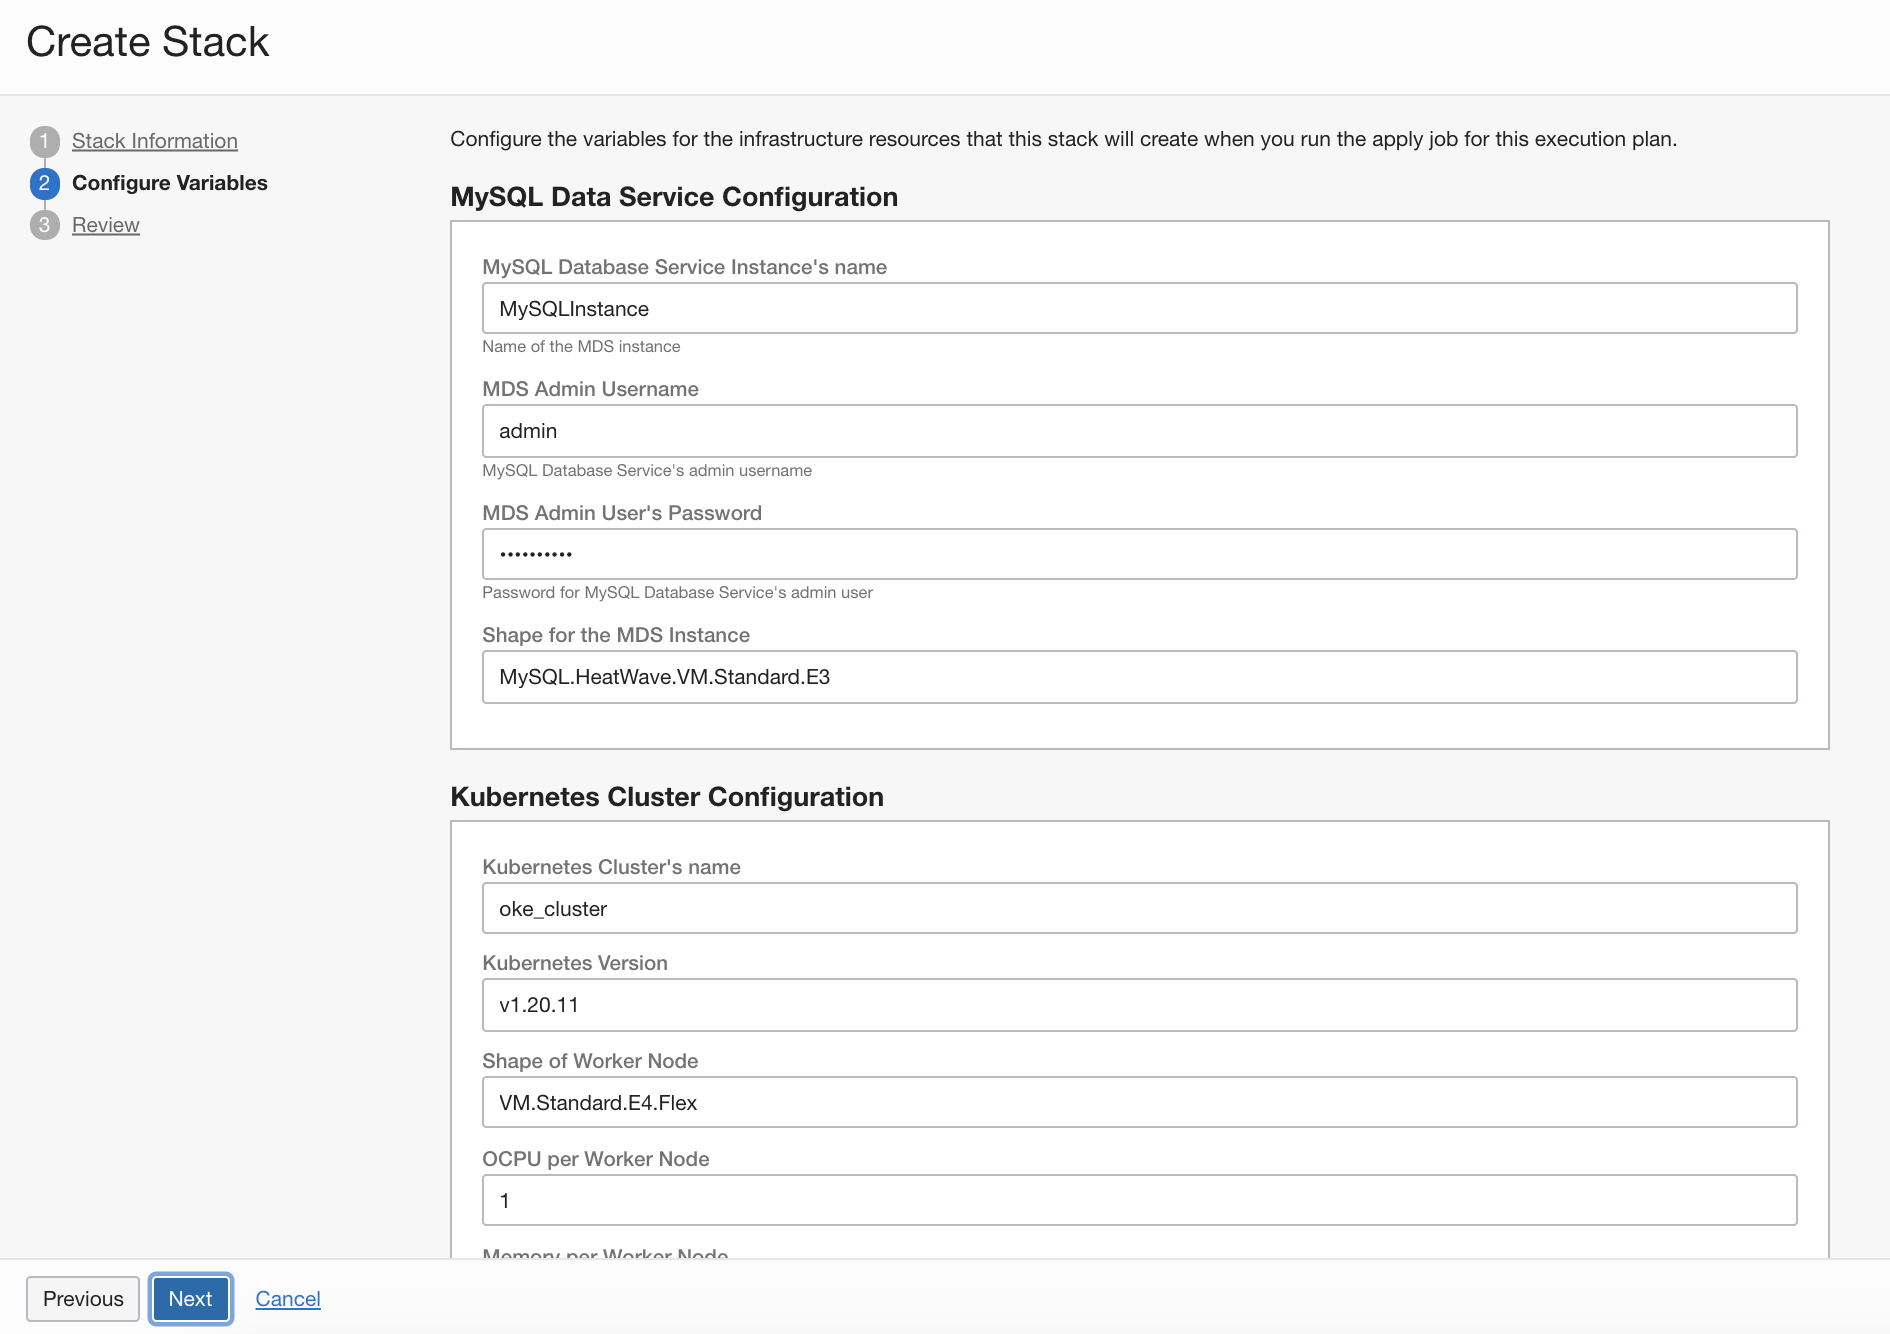
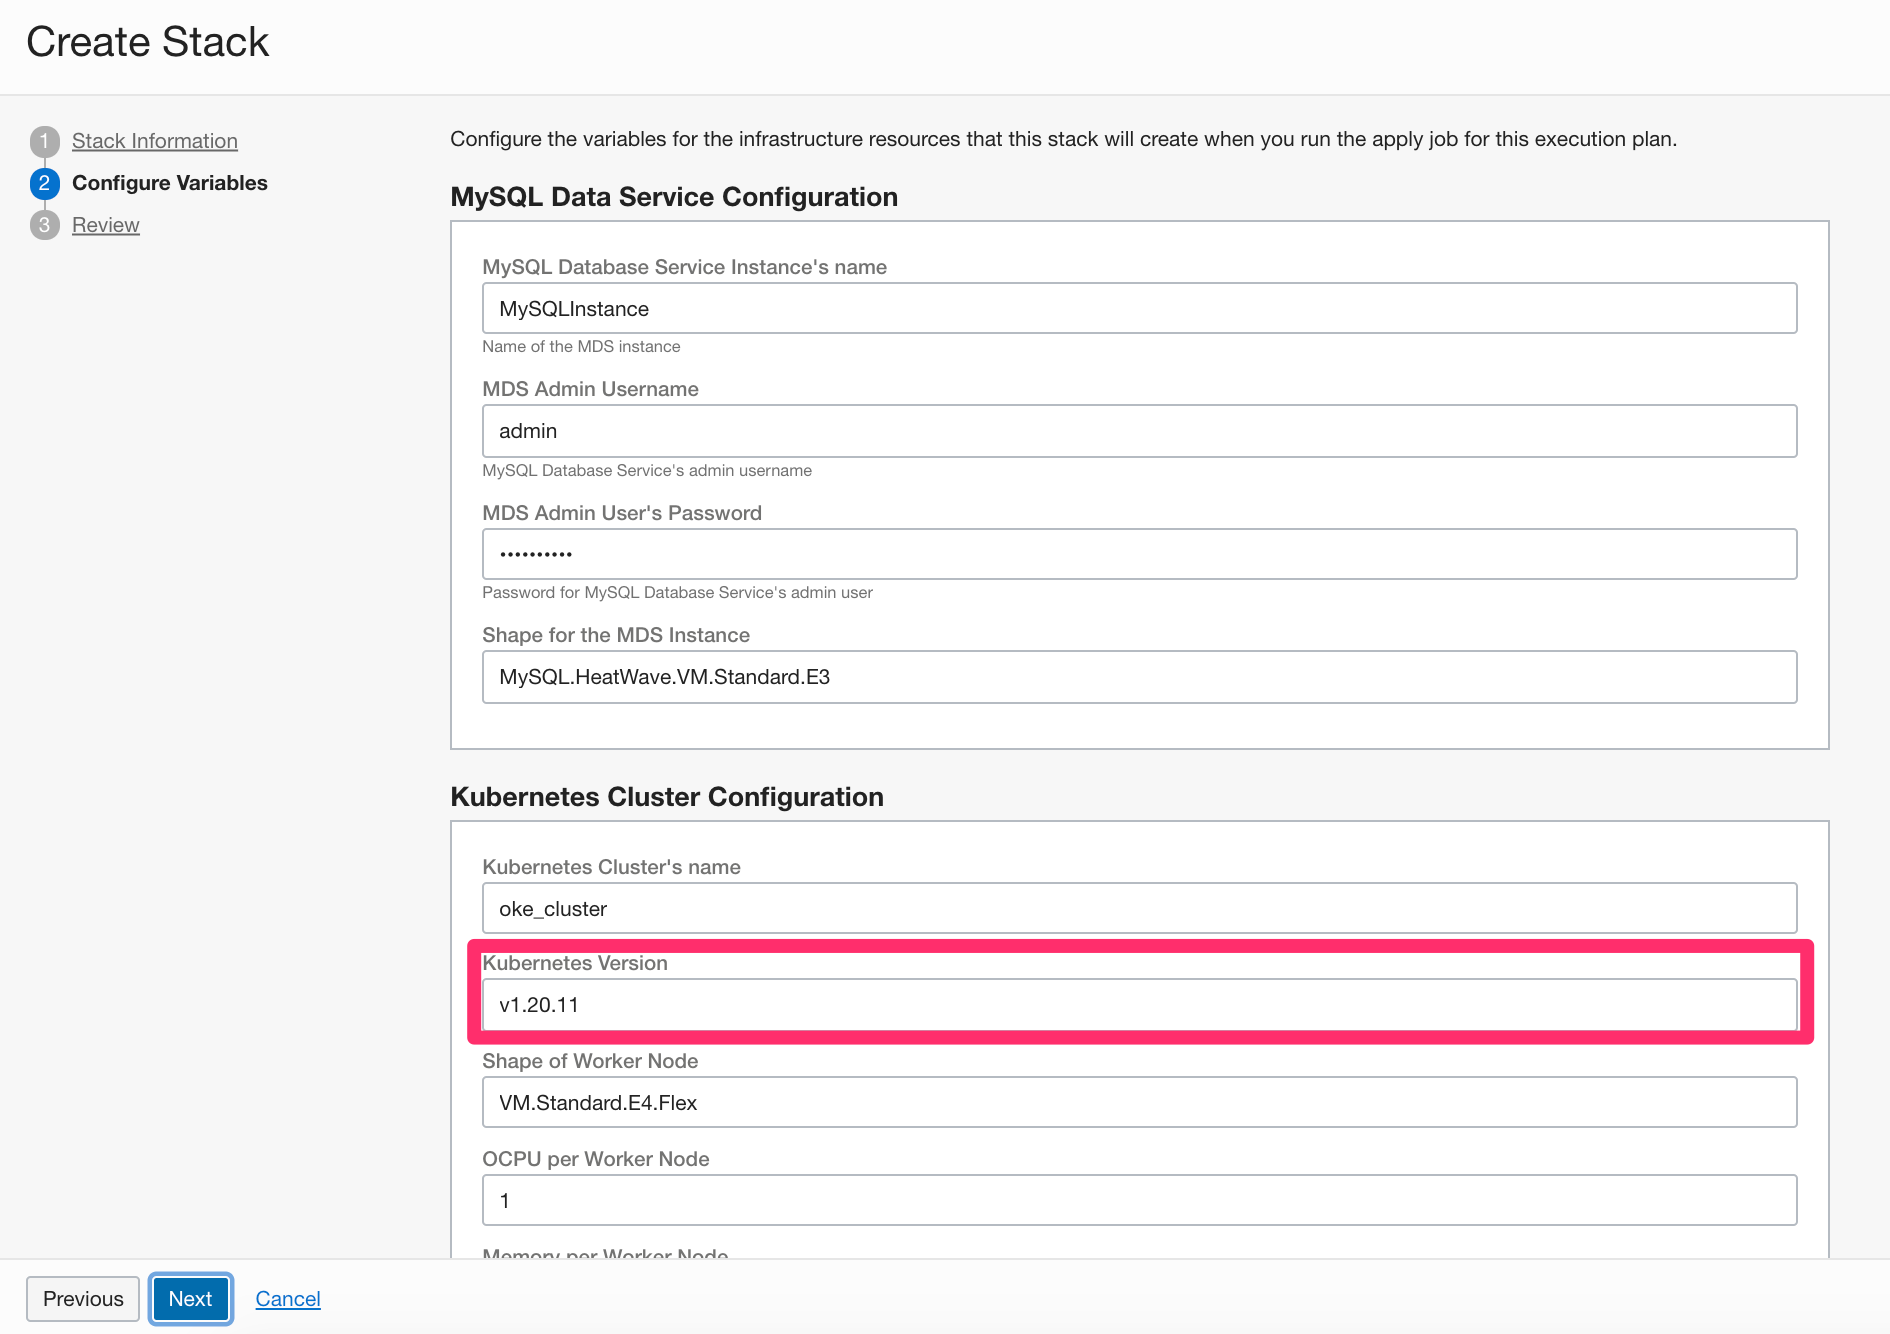
[WMS 11039] Update for QA (#169)
* minor updates

updated Jupyter pymysql and https url of zeppelin

* various updates for QA purpose

update OKE versions and screenshots on resource manager

* updates for QA purpose

updated OKE versions to use the latest version when provisioning terraform script

Changed region(s): [[0.2497, 0.7069, 0.9677, 0.7991], [0.0624, 0.9528, 0.1249, 1.0], [0.0, 0.1229, 0.0312, 0.1537]]

diff --git a/heatwave-cloud-analytics/oke/oke.md b/heatwave-cloud-analytics/oke/oke.md
@@ -33,9 +33,10 @@ In this lab, you will provision the following OCI resources using Resource Manag
 
 	![Stack Information](images/resource-manager-stack-info.png)
 
-3. Review the values pre-populated for your OCI Resources, update the password for "MDS Admin User's Password" (default password: Oracle#123), and click **Next**.
+3. Review the values pre-populated for your OCI Resources, update the password for "MDS Admin User's Password" (default password: Oracle#123). Specify the <a href="https://docs.oracle.com/en-us/iaas/Content/ContEng/Concepts/contengaboutk8sversions.htm" target="\_blank">**supported Kubernetes version**</a>, for example, 1.25.4 and click **Next**.
 
-	![Stack Variables](images/resource-manager-stack-variables.png)
+	![Stack Variables](images/resource-manager-stack-variables.jpg)
+	> **Note**: Oracle recommends that you use the most recent Kubernetes version that Container Engine for Kubernetes supports
 
 4. Check **Run Apply** and click **Create** to create the stack and apply the Terraform scripts.
 
@@ -68,4 +69,4 @@ In this lab, you will provision the following OCI resources using Resource Manag
 	* Perside Foster, MySQL Solution Engineering North America
 	* Rayes Huang, OCI Solution Specialist, OCI Asia Pacific
 
-* **Last Updated By/Date** - Ryan Kuan, May 2022
+* **Last Updated By/Date** - Ryan Kuan, March 2023

diff --git a/mysql-migration/provision/provision.md b/mysql-migration/provision/provision.md
@@ -31,9 +31,10 @@ In this lab, you will provision the following OCI resources using Resource Manag
 
     ![Stack Information](images/resource-manager-stack-info.png)
 
-3. Review the values pre-populated for your OCI Resources, update the password for "MDS Admin User's Password" (default password: Oracle#123), and click **Next**.
+3. Review the values pre-populated for your OCI Resources, update the password for "MDS Admin User's Password" (default password: Oracle#123). Specify the <a href="https://docs.oracle.com/en-us/iaas/Content/ContEng/Concepts/contengaboutk8sversions.htm" target="\_blank">**supported Kubernetes version**</a>, for example, 1.25.4 and click **Next**.
 
     ![Stack Variables](images/resource-manager-stack-variables.png)
+    > **Note**: Oracle recommends that you use the most recent Kubernetes version that Container Engine for Kubernetes supports
 
 4. Check **Run Apply** and click **Create** to create the stack and apply the Terraform scripts.
 
@@ -65,4 +66,4 @@ In this lab, you will provision the following OCI resources using Resource Manag
 	* Perside Foster, MySQL Solution Engineering
 	* Howie Owi, OCI Solution Specialist, OCI APAC
 
-* **Last Updated By/Date** - Ryan Kuan, March 2022
+* **Last Updated By/Date** - Ryan Kuan, March 2023

diff --git a/heatwave-cloud-analytics/superset/superset.md b/heatwave-cloud-analytics/superset/superset.md
@@ -108,7 +108,7 @@ This lab assumes you have:
     kubectl port-forward service/superset --address 0.0.0.0 8088:8088 -n superset &
     </copy>
     ```
-    > **Note** This is an alternative way to access OKE services via kubernetes port-forwarding function that is different from using ingress-controller
+    > **Note** This is an alternative way to access OKE services via kubernetes port-forwarding function that is different from using ingress-controller. Port-forwarding is only used for development and testing purposes only
 
 ## Task 3: Edit VCN Security List
 

diff --git a/heatwave-cloud-analytics/redash/redash.md b/heatwave-cloud-analytics/redash/redash.md
@@ -100,6 +100,7 @@ kubectl get pods --namespace redash -l "app.kubernetes.io/name=redash,app.kubern
 kubectl --namespace redash port-forward <POD_NAME> 8082:5000 --address 0.0.0.0 &
 </copy>
 ```
+    > **Note**: Port-forwarding is used for development and testing purposes only
 
 8. Navigate to **Virtual Cloud Network**, select **oke-vcn**, select **Security List** on the left panel, and select **operator-seclist**
 
